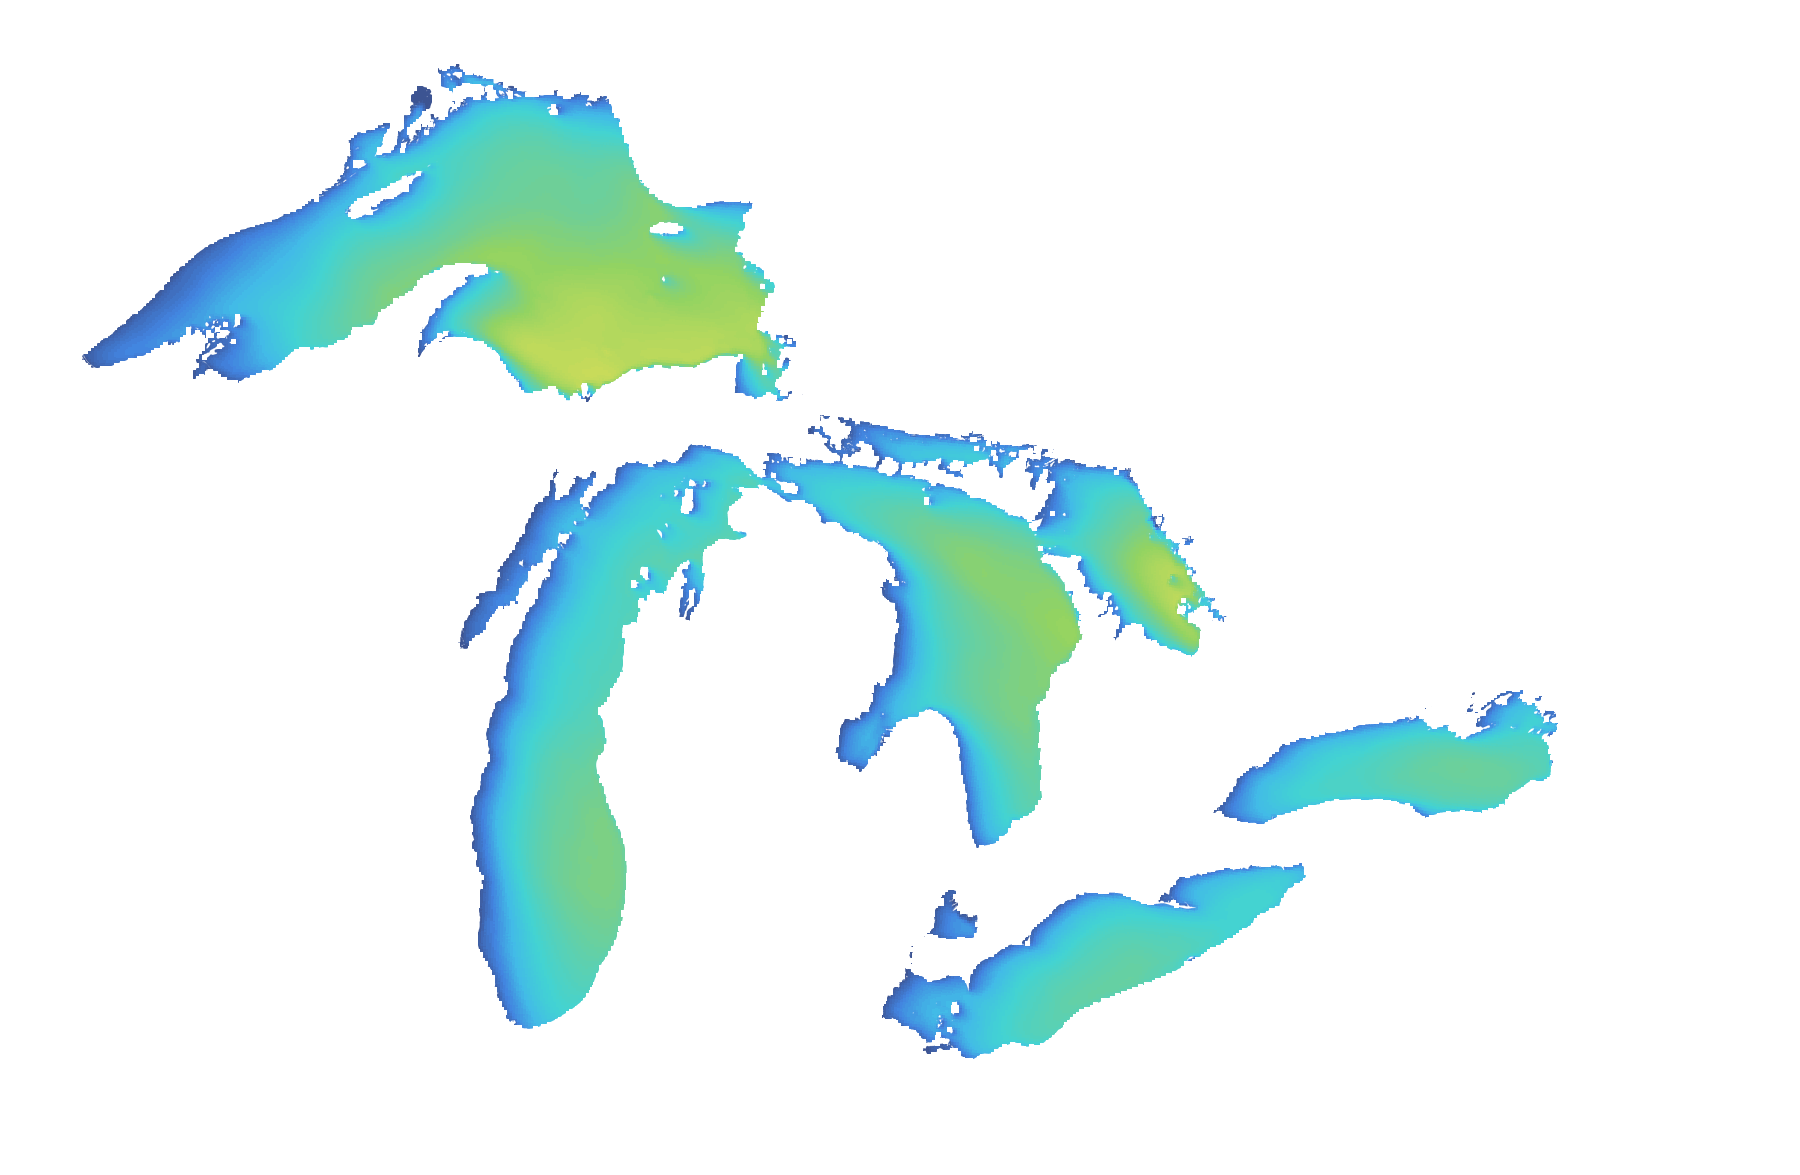
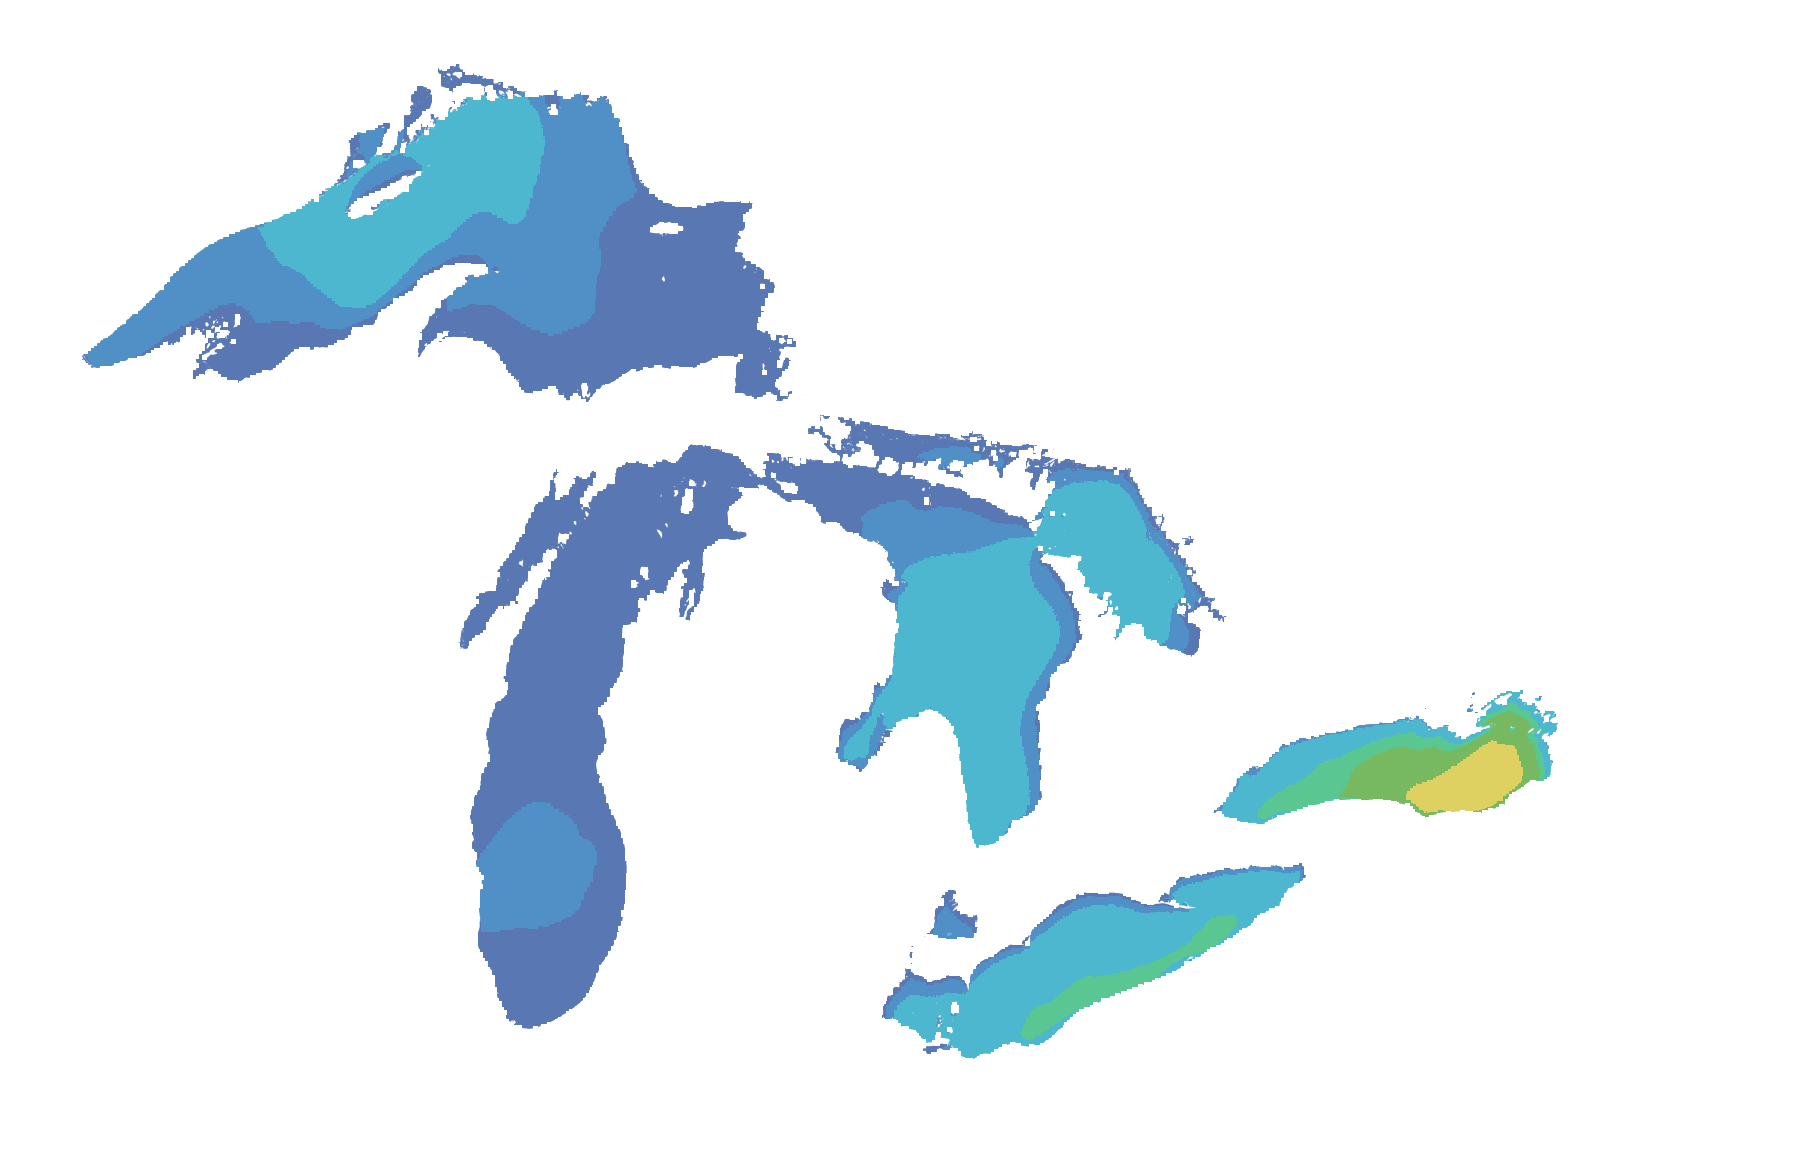
Live Wave Height: 18 fixed discrete bins with user hexes verbatim, categorical table legend

diff --git a/scripts/build_wave_height.py b/scripts/build_wave_height.py
@@ -23,10 +23,12 @@ sys.path.insert(0, os.path.dirname(os.path.abspath(__file__)))
 from build_kml import (assert_no_vector_geometry, build_entry_kml, build_kml,
                        description_html, entry_description_html, legend_block,
                        live_out_dirs, refresh_kml_base_url)
-from geospatial_utils import (RENDER_VERSION, REPO_ROOT, SITE_DIR, WAVE_TICKS,
-                              base_metadata, download, fetch_buoy_obs,
-                              grib_stamp_to_det, now_det_str,
-                              promote_stage, read_state, source_token,
+from geospatial_utils import (RENDER_VERSION, REPO_ROOT, SITE_DIR,
+                              apply_shoreline_mask, base_metadata,
+                              bin_to_canvas, canvas_indices, download,
+                              fetch_buoy_obs, grib_stamp_to_det,
+                              load_bounds, now_det_str, promote_stage,
+                              read_state, save_png, source_token,
                               stage_dir, utcnow_iso, write_metadata,
                               write_state)
 from render_gradient import render_field
@@ -43,6 +45,126 @@ BUOY_POS = {
     "45012": (-77.383, 43.619),
     "45005": (-82.398, 41.677),
 }
+
+
+def _hex_rgb(h):
+    h = h.lstrip("#")
+    return (int(h[0:2], 16), int(h[2:4], 16), int(h[4:6], 16))
+
+
+# Fixed 18-bin discrete wave-height scale (user-supplied hexes VERBATIM).
+# Each row is (label, hex, lo_inclusive_ft, hi_exclusive_ft). Bin edges
+# partition [0, +inf) with no gaps: a label like "4-5 ft" covers [4, 6)
+# (its 2-ft step up to the next row's lower edge), so values such as
+# 5.5 ft, 7.5 ft, etc. always land in exactly one fixed color. Every
+# rendered pixel wears its bin's exact hex -- never blended.
+WAVE_FIXED_BINS = [
+    ("0 ft", "#3156A0", 0.0, 0.5),
+    ("0.5 ft", "#2675B8", 0.5, 1.0),
+    ("1-2 ft", "#20A5C2", 1.0, 3.0),
+    ("3-4 ft", "#32B878", 3.0, 4.0),
+    ("4-5 ft", "#55A83A", 4.0, 6.0),
+    ("6-7 ft", "#D6C43A", 6.0, 8.0),
+    ("8-9 ft", "#D0A83A", 8.0, 10.0),
+    ("10-11 ft", "#E07832", 10.0, 12.0),
+    ("12-13 ft", "#C9573C", 12.0, 14.0),
+    ("14-15 ft", "#C6283D", 14.0, 16.0),
+    ("16-17 ft", "#9F3F68", 16.0, 18.0),
+    ("18-19 ft", "#8E3FB3", 18.0, 20.0),
+    ("20-21 ft", "#693D8C", 20.0, 22.0),
+    ("22-23 ft", "#4F3475", 22.0, 24.0),
+    ("24-25 ft", "#75344F", 24.0, 26.0),
+    ("26-27 ft", "#8A4934", 26.0, 28.0),
+    ("28-29 ft", "#A05F45", 28.0, 30.0),
+    ("30+ ft", "#FFFFFF", 30.0, float("inf")),
+]
+WAVE_FIXED_MIN = 0.0
+WAVE_FIXED_MAX = 30.0
+WAVE_FIXED_EDGES = [b[2] for b in WAVE_FIXED_BINS[1:]] + [30.0]
+WAVE_FIXED_RGB = [_hex_rgb(hx) for _, hx, _, _ in WAVE_FIXED_BINS]
+# Never-again guards: user hexes verbatim, edges gap-free and increasing.
+assert [hx for _, hx, _, _ in WAVE_FIXED_BINS] == [
+    "#3156A0", "#2675B8", "#20A5C2", "#32B878", "#55A83A", "#D6C43A",
+    "#D0A83A", "#E07832", "#C9573C", "#C6283D", "#9F3F68", "#8E3FB3",
+    "#693D8C", "#4F3475", "#75344F", "#8A4934", "#A05F45", "#FFFFFF"], \
+    "wave-height fixed hexes must match the user table verbatim"
+assert all(WAVE_FIXED_BINS[i][2] < WAVE_FIXED_BINS[i][3]
+           and WAVE_FIXED_BINS[i][3] == WAVE_FIXED_BINS[i + 1][2]
+           for i in range(len(WAVE_FIXED_BINS) - 2)), \
+    "wave-height bins must tile [0, 30) with no gaps or overlaps"
+
+
+def wave_bin_index(values_ft):
+    """Bin index 0..17 for each value; NaN/negative -> -1 (transparent)."""
+    import numpy as _np
+    v = _np.asarray(values_ft, dtype=float)
+    idx = _np.searchsorted(
+        _np.array([0.5, 1.0, 3.0, 4.0, 6.0, 8.0, 10.0, 12.0, 14.0,
+                   16.0, 18.0, 20.0, 22.0, 24.0, 26.0, 28.0, 30.0]),
+        v, side="right")
+    idx = _np.clip(idx, 0, 17).astype(int)
+    bad = ~( _np.isfinite(v) & (v >= 0))
+    idx = _np.where(bad, -1, idx)
+    return idx
+
+
+def render_wave_fixed(field, alpha):
+    """Exact preset render: every pixel takes its bin's verbatim hex."""
+    import numpy as _np
+    H, W = field.shape
+    rgba = _np.zeros((H, W, 4), dtype=_np.uint8)
+    idx = wave_bin_index(field)
+    ok = idx >= 0
+    if not ok.any():
+        return rgba
+    lut = _np.array(WAVE_FIXED_RGB, dtype=_np.uint8)
+    rgba[ok, 0:3] = lut[idx[ok]]
+    rgba[ok, 3] = alpha
+    return rgba
+
+
+def draw_wave_height_table(path, title, subtitle, source_line, note=None):
+    """Categorical legend: the 18-row user table itself (label + swatch).
+
+    No gradient slider, no hex text -- the swatches are the exact raster
+    colors. Returns (W, H)."""
+    import os as _os
+    from PIL import Image, ImageDraw
+    from geospatial_utils import _legend_font
+    f_title, f_body, f_small = _legend_font(22), _legend_font(15), _legend_font(13)
+    pad, row_h, head_h = 14, 24, 30
+    W = 640
+    y_top = 64
+    y_src = y_top + head_h + row_h * len(WAVE_FIXED_BINS)
+    H = y_src + (58 if note else 40) + 8
+    img = Image.new("RGBA", (W, H), (255, 255, 255, 235))
+    d = ImageDraw.Draw(img)
+    d.rectangle([0, 0, W - 1, H - 1], outline=(60, 60, 60), width=2)
+    d.text((pad, 8), title, font=f_title, fill=(10, 10, 10))
+    d.text((pad, 36), subtitle, font=f_body, fill=(40, 40, 40))
+    y = y_top
+    d.rectangle([pad, y, W - pad, y + head_h], fill=(235, 235, 235, 255),
+                outline=(40, 40, 40))
+    d.text((pad + 6, y + 5), "Wave height", font=f_body, fill=(10, 10, 10))
+    d.text((520, y + 5), "Color", font=f_body, fill=(10, 10, 10))
+    y += head_h
+    for i, (label, hx, _lo, _hi) in enumerate(WAVE_FIXED_BINS):
+        if i % 2 == 1:
+            d.rectangle([pad, y, W - pad, y + row_h],
+                        fill=(245, 245, 245, 255))
+        d.text((pad + 6, y + 3), label, font=f_body, fill=(10, 10, 10))
+        d.rectangle([520, y + 2, W - pad - 2, y + row_h - 2],
+                    fill=_hex_rgb(hx) + (255,), outline=(40, 40, 40))
+        d.line([(pad, y), (W - pad, y)], fill=(200, 200, 200, 255))
+        y += row_h
+    d.rectangle([pad, y_top, W - pad, y], outline=(40, 40, 40))
+    y += 6
+    d.text((pad, y + 6), source_line, font=f_small, fill=(60, 60, 60))
+    if note:
+        d.text((pad, y + 24), note, font=f_small, fill=(60, 60, 60))
+    _os.makedirs(_os.path.dirname(path), exist_ok=True)
+    img.save(path)
+    return W, H
 
 
 def ff(x):
@@ -260,7 +382,9 @@ def _build(got, used_url, datestr, cycle, raw_path):
         source_line=(f"Source: NCEP GLWU v2.1 (WAVEWATCH III) {datestr} t{cycle}z  |  "
                      f"Processed {now_det_str()}"),
         unit_label="feet", transparent_value=None, fmt="{:.0f}",
-        splat_radius=2, product_dir=stage_prod, tick_labels=WAVE_TICKS)
+        splat_radius=2, product_dir=stage_prod, tick_labels=None,
+        discrete_bins=WAVE_FIXED_BINS, discrete_render=render_wave_fixed,
+        discrete_legend=draw_wave_height_table)
 
     if int((rgba[:, :, 3] > 0).sum()) < 10_000:
         print(f"[{PRODUCT}] VALIDATION FAILED: raster has no water pixels.")
@@ -299,12 +423,16 @@ def _build(got, used_url, datestr, cycle, raw_path):
 
     np.savez_compressed(os.path.join(RAW_DIR, f"{PRODUCT}_field.npz"),
                         lats=lats, lons=lons, values=values_ft)
-    scale_html = (f"Wave height (feet, one continuous gradient): <b>0</b> dark "
-                  f"blue → <b>2</b> blue/cyan → <b>5</b> cyan/green → <b>9</b> "
-                  f"green/yellow → <b>12–15</b> yellow-orange → orange → "
-                  f"<b>20</b> red → <b>23–26</b> red-violet → violet → "
-                  f"<b>30+</b> dark purple extreme. Model maximum this run: "
-                  f"<b>{run_max} ft</b>. Values above 30 ft stay dark purple. "
+    scale_html = (f"Wave height (feet, 18 fixed colors): <b>0 ft</b> → "
+                  f"<b>0.5 ft</b> → <b>1-2 ft</b> → <b>3-4 ft</b> → "
+                  f"<b>4-5 ft</b> → <b>6-7 ft</b> → <b>8-9 ft</b> → "
+                  f"<b>10-11 ft</b> → <b>12-13 ft</b> → <b>14-15 ft</b> → "
+                  f"<b>16-17 ft</b> → <b>18-19 ft</b> → <b>20-21 ft</b> → "
+                  f"<b>22-23 ft</b> → <b>24-25 ft</b> → <b>26-27 ft</b> → "
+                  f"<b>28-29 ft</b> → <b>30+ ft</b> (white). Every pixel "
+                  f"shows its bin's exact color; the legend is the full "
+                  f"table. Model maximum this run: <b>{run_max} ft</b>. "
+                  f"Values above 30 ft stay white. "
                   f"Significant height = average of highest third of waves.")
     meta["legend_scale_html"] = scale_html
     write_metadata(stage_prod, meta)  # re-write incl. buoy QC + legend text

diff --git a/scripts/render_gradient.py b/scripts/render_gradient.py
@@ -30,7 +30,9 @@ RENDER_SPECS = {
 
 def render_field(product, lats, lons, values_display, vmin, vmax, meta_extra,
                  title, subtitle, source_line, unit_label, transparent_value,
-                 fmt, splat_radius=1, product_dir=None, tick_labels=None):
+                 fmt, splat_radius=1, product_dir=None, tick_labels=None,
+                 discrete_bins=None, discrete_render=None,
+                 discrete_legend=None):
     bounds = load_bounds()
     rows, cols, valid = canvas_indices(lats, lons, bounds)
     field, counts = bin_to_canvas(
@@ -38,21 +40,32 @@ def render_field(product, lats, lons, values_display, vmin, vmax, meta_extra,
         (bounds["canvas_height"], bounds["canvas_width"]),
         splat_radius=splat_radius)
     spec = RENDER_SPECS[product]
-    rgba = apply_colormap(field, vmin, vmax, spec["stops"],
-                          bounds["overlay_alpha"], transparent_value)
+    if discrete_render is not None:
+        # Fixed-bin discrete scale (e.g. wave height 18 bins): exact
+        # preset colors, no interpolation between bins.
+        rgba = discrete_render(field, bounds["overlay_alpha"])
+    else:
+        rgba = apply_colormap(field, vmin, vmax, spec["stops"],
+                              bounds["overlay_alpha"], transparent_value)
     rgba = apply_shoreline_mask(rgba)  # one shared GSHHG shoreline for all
     if product_dir is None:
         product_dir = os.path.join(SITE_DIR, product)
     save_png(rgba, os.path.join(product_dir, "current.png"))
-    draw_legend(os.path.join(product_dir, "legend.png"), title, subtitle,
-                unit_label, vmin, vmax, spec["stops"], source_line,
-                fmt=fmt, tick_labels=tick_labels,
-                transparent_note="Transparent outside valid water data.")
+    if discrete_legend is not None:
+        lw, lh = discrete_legend(
+            os.path.join(product_dir, "legend.png"), title, subtitle,
+            source_line,
+            note="Transparent outside valid water data.")
+    else:
+        lw, lh = draw_legend(os.path.join(product_dir, "legend.png"), title, subtitle,
+                    unit_label, vmin, vmax, spec["stops"], source_line,
+                    fmt=fmt, tick_labels=tick_labels,
+                    transparent_note="Transparent outside valid water data.")
     meta = dict(meta_extra)
     meta["color_scale_min"] = vmin
     meta["color_scale_max"] = vmax
     meta["color_scale_units"] = spec["unit"]
-    meta["legend_size"] = [LEGEND_W, LEGEND_H]
+    meta["legend_size"] = [lw, lh]
     meta["rendered_nontransparent_pixels"] = int((rgba[:, :, 3] > 0).sum())
     meta["rendered_canvas_pixels"] = int(rgba.shape[0] * rgba.shape[1])
     write_metadata(product_dir, meta)

diff --git a/scripts/geospatial_utils.py b/scripts/geospatial_utils.py
@@ -165,7 +165,7 @@ def utcnow_iso():
 # Render generation: bump to force every product through one full rebuild
 # (legends/KMLs bake display text in at build time). Skip logic also keys
 # on the source id, so this only ever causes a single extra build.
-RENDER_VERSION = 3
+RENDER_VERSION = 4
 
 
 def detroit_tz():
@@ -431,7 +431,10 @@ def _lut(stops, n=256):
     return [_interp_stops(stops, i / (n - 1)) for i in range(n)]
 
 
-WAVE_STOPS = [  # continuous anchor gradient, ft -> color (piecewise-linear).
+WAVE_STOPS = [  # LEGACY continuous anchor gradient (pre-fixed-bins).
+    # Wave height now renders through the 18-bin discrete table in
+    # build_wave_height.py (WAVE_FIXED_BINS, user hexes verbatim); this
+    # continuous table is kept only for reference / backward compat.
     # Anchors bunch toward low values, so each successive range gets
     # progressively less color resolution (0-9 highest, 27-30+ compressed).
     # Values above 30 ft clamp into the dark-purple extreme end.
